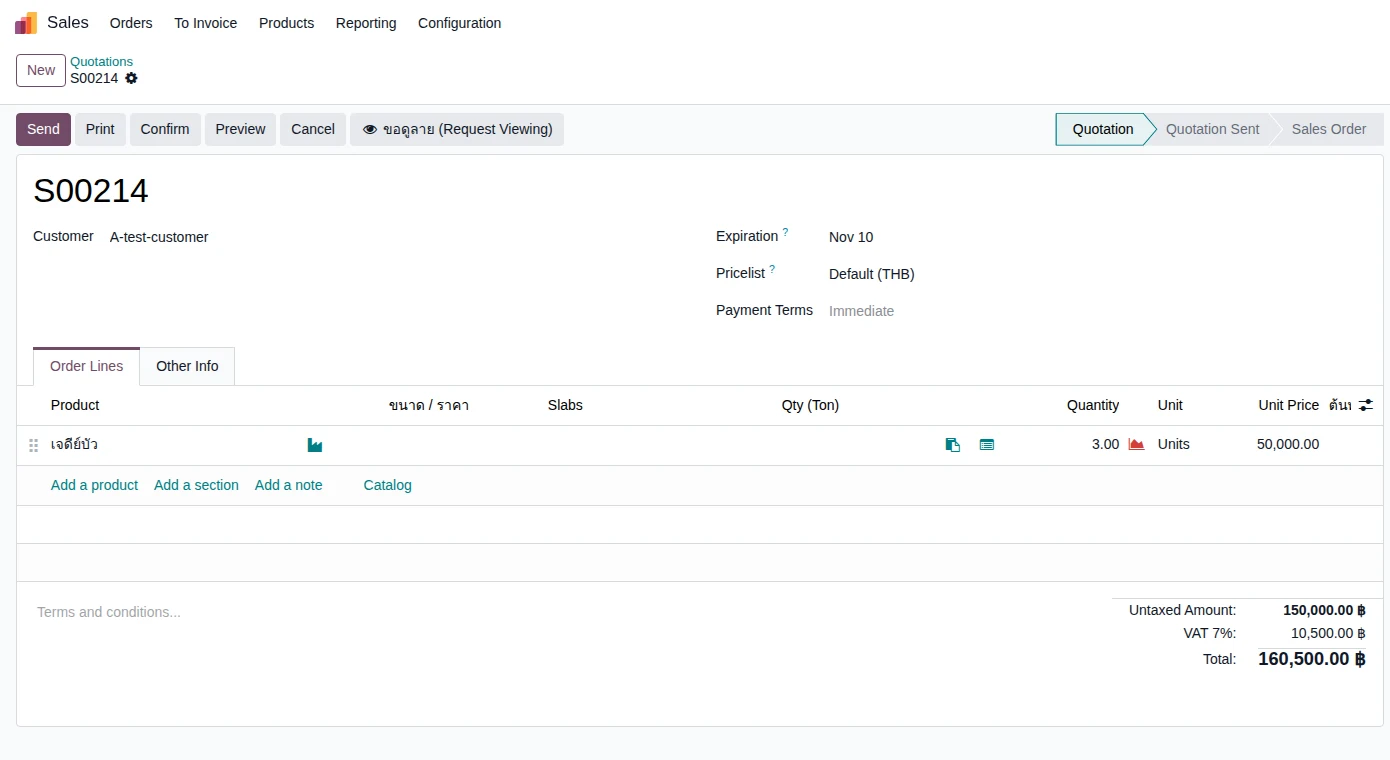
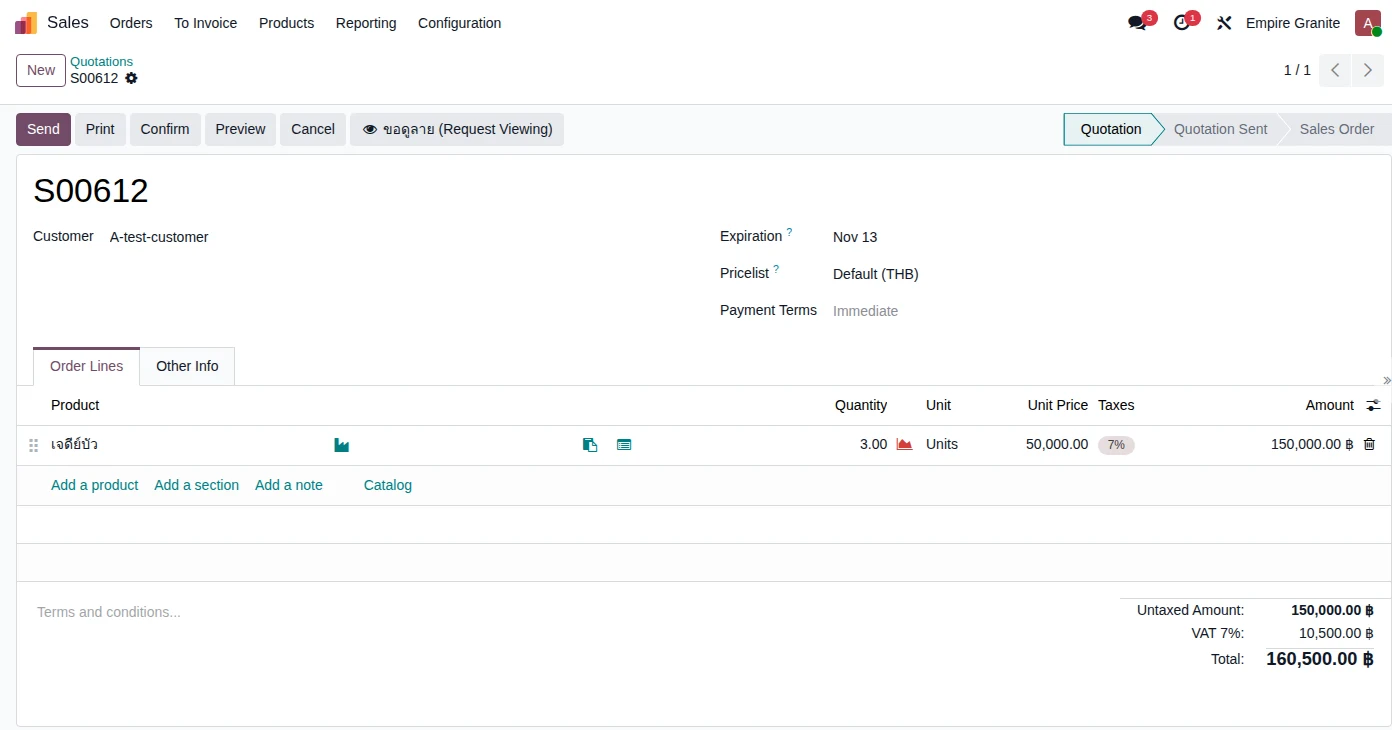
manual 32 FG: re-shoot 6 SO screenshots (new columns), refresh status notes, verified Path A numbers on v109.24

diff --git a/manual/32-fg.html b/manual/32-fg.html
@@ -73,7 +73,7 @@
     <h1><span class="chapter-num">32</span> FG — Countertop และ Custom FG: นิยาม แนวคิด ขั้นตอน และเงื่อนไข</h1>
   </div>
   <div class="page-content">
-<p class="doc-date">อัปเดตล่าสุด: 11 ตุลาคม 2569 (2026-10-11) · ระบบ stone_slab_inventory เวอร์ชัน 19.0.2.109.12 + boq_estimation 1.24.0 · ภาพหน้าจอทั้งหมดมาจากการทดลองใช้งานจริงบนระบบทดสอบ เมื่อ 11 ตุลาคม 2569 · หลังรอบทดลองนี้มีการแก้ระบบ 3 จุดบนระบบทดสอบ (ยังไม่ได้ commit และยังไม่ได้ขยับเลขเวอร์ชัน): ตัดแถว Slab ตามสูตรที่ไม่ได้ใช้ออกจาก Components, ใบส่งของ FG จอง Lot ของใบสั่งผลิตของบรรทัดนั้นก่อน, และเพิ่มปุ่ม "คัดลอกแผนเป็นขนาดจริง" ในใบตัดหิน — รันทดสอบซ้ำแล้ว ดู Golden Path ชุดใหม่ <a href="../qa/test-cases-golden-path-fg-countertop-custom.html">TC-GP-FGS-01 ถึง 18</a></p>
+<p class="doc-date">อัปเดตล่าสุด: 14 ตุลาคม 2569 (2026-10-14) · ระบบ stone_slab_inventory เวอร์ชัน 19.0.2.109.24 + boq_estimation 1.24.0 · ภาพหน้าจอ: หน้าใบสั่งขาย (A.1, A.4, A.5, B.1, B.3, B.4) ถ่ายใหม่เมื่อ 14 ตุลาคม 2569 เพราะใบสั่งขายมีคอลัมน์ใหม่ (หนา (ซม.), เตือนกำไร) ส่วนภาพอื่นถ่ายเมื่อ 11 ตุลาคม 2569 และหน้าจอไม่ได้เปลี่ยน (ตรวจเทียบแล้วเมื่อ 14 ตุลาคม) · ตัวเลขตัวอย่างทดลองรันซ้ำบนเวอร์ชันล่าสุดแล้ว ผลเท่าเดิม (ใบเสนอราคา 45,720 บาท ใช้ Slab 2 แผ่น ต้นทุน 2,430 บาท) · การแก้ระบบ 3 จุดเมื่อ 11 ตุลาคม (ตัดแถว Slab ตามสูตรที่ไม่ได้ใช้ออกจาก Components, ใบส่งของ FG จอง Lot ของใบสั่งผลิตของบรรทัดนั้นก่อน, ปุ่ม "คัดลอกแผนเป็นขนาดจริง" ในใบตัดหิน) commit และติดตั้งบนระบบทดสอบทั้งสองฐานแล้ว ดู Golden Path ชุดใหม่ TC-GP-FGS-01 ถึง 18</p>
 <style>
 .doc-date{color:#6b7280;font-size:.9em;margin-bottom:1.2em}
 .flow{display:flex;flex-wrap:wrap;gap:6px;align-items:stretch;margin:1.2em 0}
@@ -379,9 +379,9 @@ table.cond td.no{background:#fdeeee}
 <li>ต้นทุนในสูตร BOQ ของ Custom FG เป็นค่าประมาณ (ใช้ราคา Rate ไม่ใช่ต้นทุน Slab จริง)</li>
 <li>BOQ0024 (ที่นำเข้าจาก Cut List มีวัสดุสิ้นเปลือง 5 + ค่าแรง 7 แถว) ทดลองจนจบแล้ว 11 ต.ค.: โหลดเข้าใบขาย S00217 → Confirm → ใบตัดหิน STCPL/00020, 00021 → งานประกอบ STFG/00062 → ส่งของ OUT/00111 → INV/2026/00027 แต่ค่าแรงและวัสดุสิ้นเปลือง (ที่ไม่มีสินค้า) ในสูตรไม่ถูกลงบัญชี (ดูหัวข้อ 5.4)</li>
 <li>ปุ่ม "คัดลอกแผนเป็นขนาดจริง" มีเฉพาะใบตัดหิน (Cutting Plan) ยังไม่มีในตารางแผ่นของใบสั่งตัด (Cut Order) · ถ้าไม่บันทึกเศษที่เหลือ ต้นทุน Slab ทั้งแผ่นเข้า WIP/FG ทั้งหมด (ใบตัดหิน Custom FG ในรอบนี้ไม่ได้บันทึกเศษ ผลคือ WIP สูงกว่าประมาณการ)</li>
-<li>การแก้ 3 จุดเมื่อ 11 ต.ค. 2569 (ตัดแถว Slab ที่ไม่ใช้, จอง Lot ตามใบสั่งผลิต, ปุ่มคัดลอกแผน) ทำบนระบบทดสอบ eg-tst เท่านั้น ยังไม่ได้ commit และยังไม่ได้อัปเกรดฐานข้อมูลอื่น Component Status ที่หัวฟอร์มหลังแก้ ยังไม่ได้ตรวจกับใบที่เพิ่ง Confirm</li>
+<li>การแก้ 3 จุดเมื่อ 11 ต.ค. 2569 (ตัดแถว Slab ที่ไม่ใช้, จอง Lot ตามใบสั่งผลิต, ปุ่มคัดลอกแผน) commit และติดตั้งบน eg-tst และ mbx-ee-dev แล้ว Component Status ที่หัวฟอร์มหลังแก้ ตรวจแล้วเมื่อ 14 ต.ค. กับใบที่เพิ่ง Confirm ขึ้น Available ปกติ</li>
 <li>หน้าใบสั่งผลิตหลังกด "ย้ายไปสถานีตัด" แถบเหลือง "ขั้นตอนถัดไป: กดปุ่ม ย้ายไปสถานีตัด…" ยังค้างอยู่จนกว่าจะ Confirm และใบตัดหินที่ Confirm แล้วมีหัวข้อ "ขั้นตอนที่ 3" สองหัวข้อ งานประกอบ (Custom FG) ยังแสดงหัวข้อ "ขั้นตอนที่ 1 — เลือก Block ที่จะตัด" ที่ไม่เกี่ยวข้อง ทั้งหมดเป็นเรื่องข้อความบนหน้าจอ ไม่กระทบการทำงาน</li>
-<li>คอลัมน์ ต้นทุน/ชิ้น และ Margin/ชิ้น บนบรรทัดใบขายอยู่ท้ายตาราง ถ้ามีคอลัมน์ ขนาด/ราคา, Slabs, Qty (Ton) แสดงอยู่ จะถูกบีบจนอ่านไม่ออก ให้ปิดคอลัมน์ที่ไม่ใช้ผ่านไอคอนตัวเลือกคอลัมน์ที่มุมขวาของหัวตาราง (ภาพ B.2 ปิดคอลัมน์เหล่านั้นไว้)</li>
+<li>คอลัมน์ ต้นทุน/ชิ้น และ Margin/ชิ้น บนบรรทัดใบขายอยู่ท้ายตาราง ถ้ามีคอลัมน์ ขนาด/ราคา, หนา (ซม.), เตือนกำไร, Slabs, Qty (Ton) แสดงอยู่ จะถูกบีบจนอ่านไม่ออก ให้ปิดคอลัมน์ที่ไม่ใช้ผ่านไอคอนตัวเลือกคอลัมน์ที่มุมขวาของหัวตาราง (ภาพในบทนี้ปิดคอลัมน์เหล่านั้นไว้)</li>
 <li>Custom FG: ต้นทุน Slab ถูกแบ่งเท่ากันทุกชิ้น และวัสดุสิ้นเปลืองต้องมีสต็อกที่ Stone Production จึงจะเข้าต้นทุน</li>
 <li>การแก้หรือยกเลิกใบสั่งขายหลัง Confirm ว่ามีผลกับใบสั่งผลิตที่สร้างไว้อย่างไร และการจอง Slab ข้ามใบขาย ยังไม่ได้ทดลอง</li>
 </ul>
